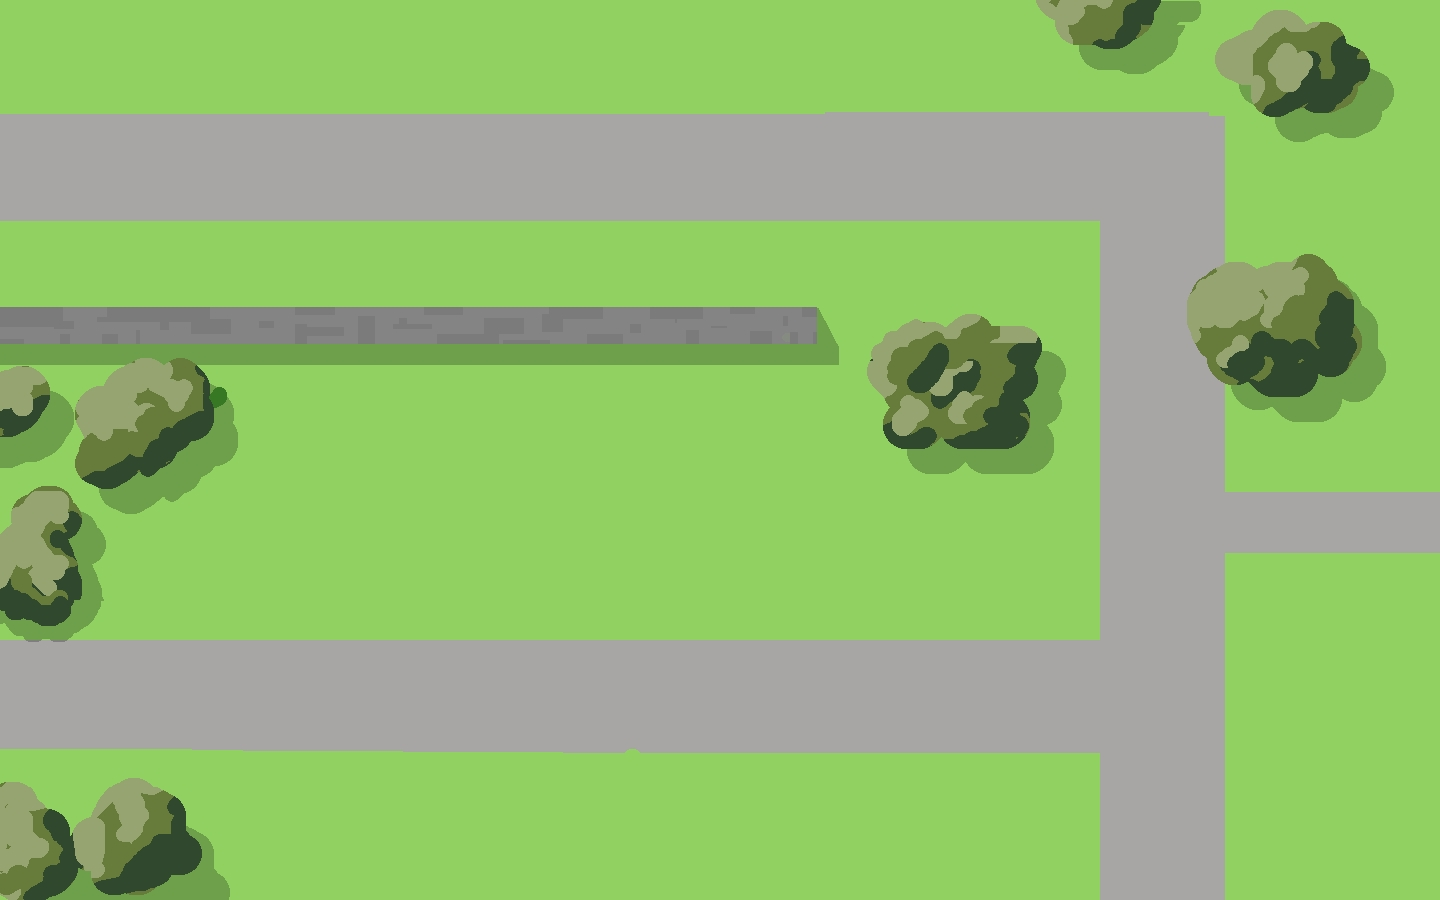
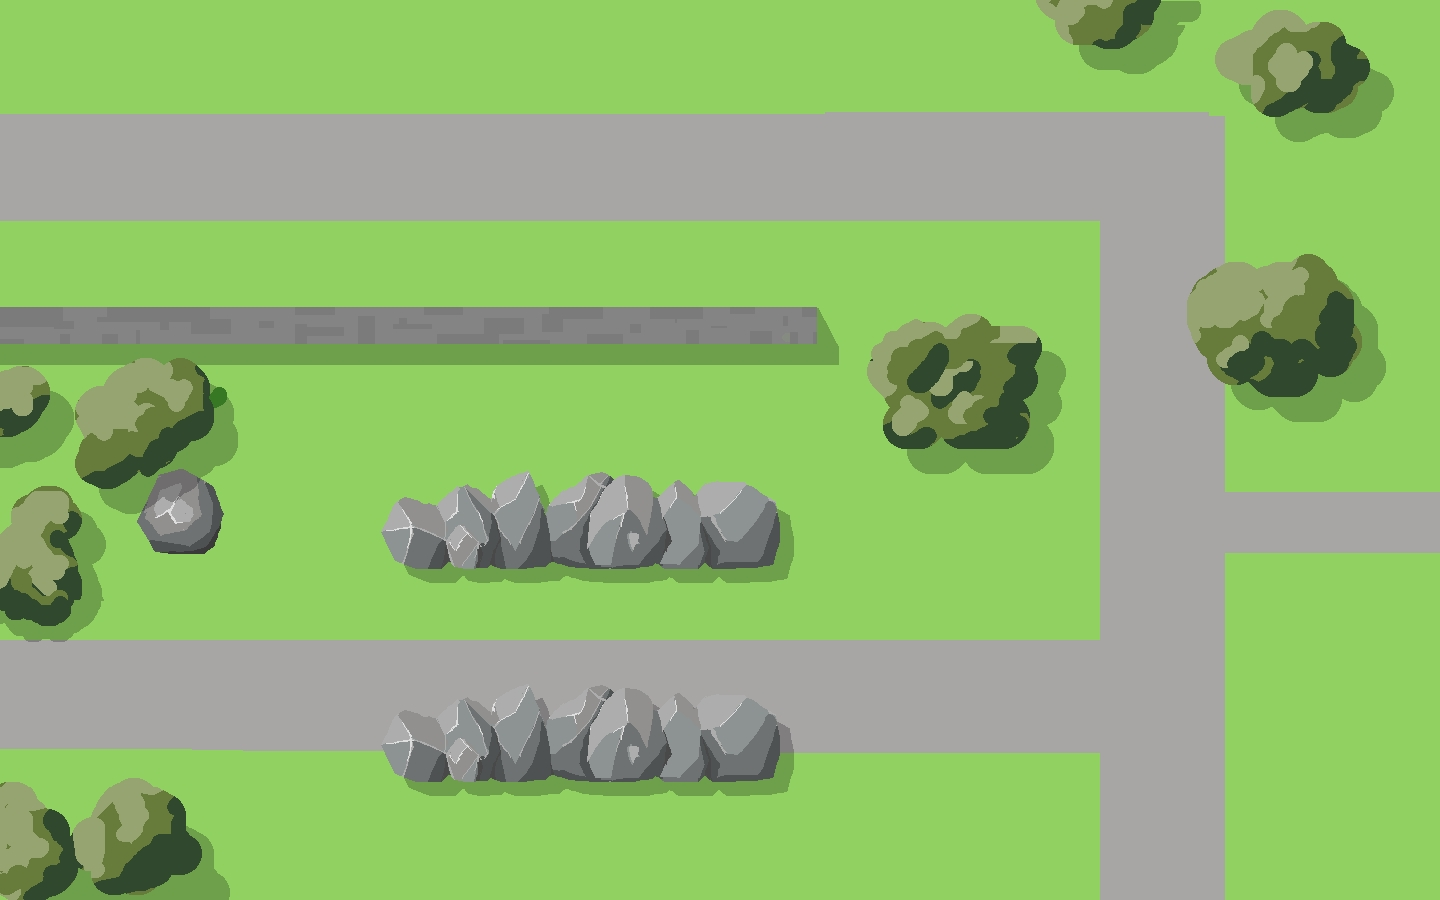
.

Changed region(s): [[0.25, 0.7778, 0.5625, 0.9022], [0.25, 0.5289, 0.5625, 0.6533], [0.0938, 0.5289, 0.1562, 0.6222]]

diff --git a/src/js/scenes/game_lvl1.js b/src/js/scenes/game_lvl1.js
@@ -34,8 +34,7 @@ export class Level1 extends Scene {
         //#region walls
         this.wall = new Wall(-1095, 165, 915, 165);
         this.breakingWall = new Wall(915, 165, 2650, 165);
-        // this.breakingWallImg = new MovableObject(1, Resources.Onewall.toSprite(), CollisionType.Passive, 400, 30);
-        this.breakingWall2 = new Wall(915, 165, 915, -510);
+       this.breakingWallImg = new MovableObject(1, Resources.Onewall.toSprite(), CollisionType.Passive, 1005, -175);
         this.breakingWall3 = new Wall(-150, 850, -150, 1050);
         //#endregion walls
 
@@ -87,7 +86,7 @@ export class Level1 extends Scene {
         console.log(ctx.previousScene)
         this.player1ID = ctx.previousScene.player1ID
         this.player2ID = ctx.previousScene.player2ID
-        this.player = new player(this, 1, 1000, 1000, this.player1ID);
+        this.player = new player(this, 1, 5, 100, this.player1ID);
         this.player2 = new player(this,2, 5, 100, this.player2ID);
         //starts game
         this.startGame()
@@ -107,7 +106,6 @@ export class Level1 extends Scene {
 
         //#region addedWalls
         this.add(this.breakingWall);
-        this.add(this.breakingWall2);
         this.add(this.breakingWall3);
         this.add(this.wall);
         //#endregion addedWalls
@@ -125,6 +123,8 @@ export class Level1 extends Scene {
         this.add(this.movableObject);
         this.add(this.moveStone);
         // this.add(this.ending)
+
+        this.add(this.breakingWallImg);
 
     }
     /*
@@ -152,10 +152,12 @@ export class Level1 extends Scene {
 
         //this is puzzle two, if the button gets pressed
         if (this.button3.openDoor) {
-            this.breakingWall2.collider.set(null);
+            this.breakingWallImg.graphics.use(null);
+
             this.button3.opendoor = false;
         } else {
-            this.breakingWall2.collider.set(this.breakingWall2.waall);
+            this.breakingWallImg.graphics.use(this.breakingWallImg.sprite);
+
             this.button3.opendoor = false;
         }
 

diff --git a/src/js/resources.js b/src/js/resources.js
@@ -4,10 +4,11 @@ import block from '../images/Sprite-0002-rock.png'
 import mapImage from "../images/map.jpg"
 import background from "../images/bg.jpg"
 import level1 from "../images/BgLevel1.jpg"
-import realLevel from "../images/map-1.png"
+import realLevel from "../images/BgLevel1New.jpg"
 import testButton from "../images/test-button.png"
 import testButton2 from "../images/test-button-2.png"
 import stone from "../images/stone.png"
+import moveWall from "../images/level1WallMove.png"
 import smallstone from "../images/smallStone.png"
 import ending from "../images/endingLvl1.png"
 import fontFile from "../css/PressStart2P-Regular.ttf";
@@ -28,6 +29,7 @@ const Resources = {
     TestButton: new ImageSource(testButton),
     TestButton2: new ImageSource(testButton2),
     Stone: new ImageSource(stone),
+    Onewall: new ImageSource(moveWall),
     characterSheet: new ImageSource(characterSheet),
     Smallstone: new ImageSource(smallstone),
     Ending: new ImageSource(ending),

diff --git a/src/js/movableObject.js b/src/js/movableObject.js
@@ -21,6 +21,7 @@ export class MovableObject extends Actor {
         this.body.collisionType = this.collision;
 
 
+
     }
 
     onInitialize(engine) {
